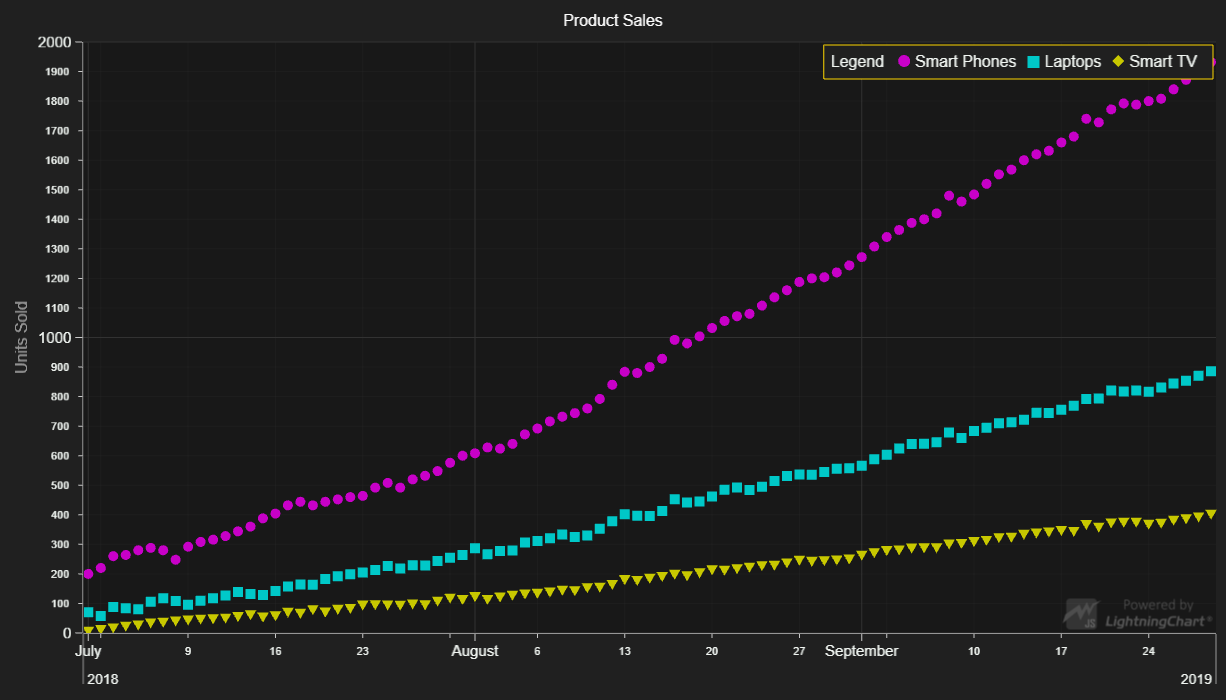
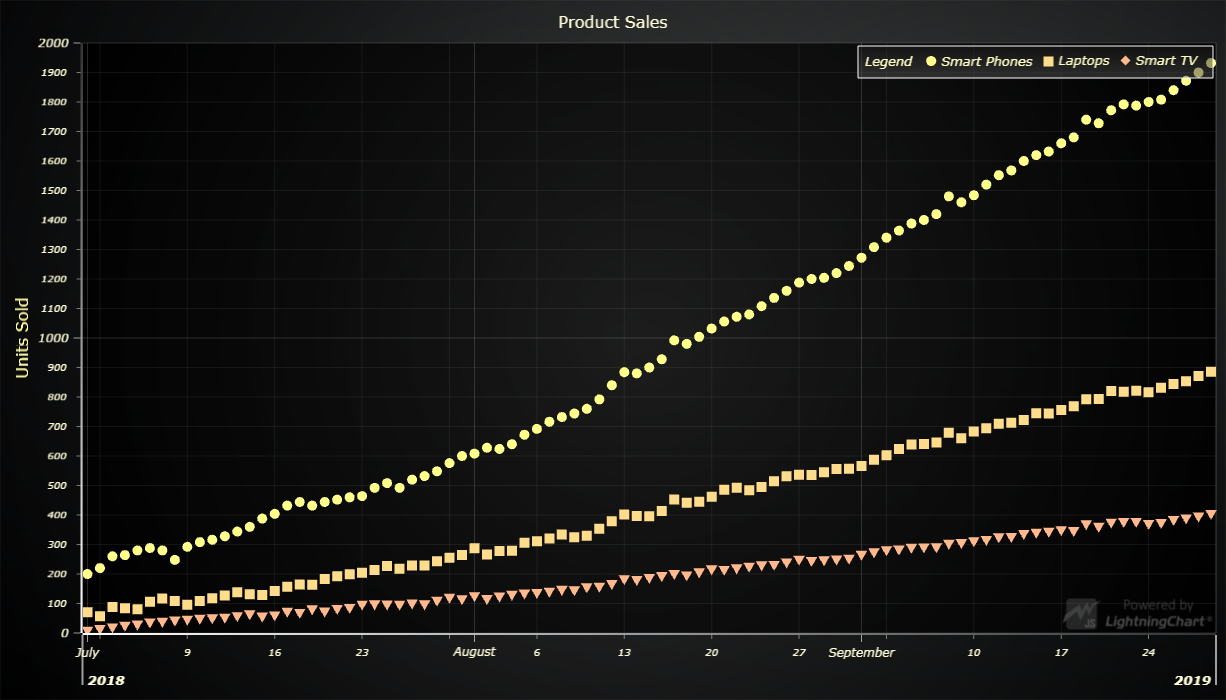
Update LCJS version

diff --git a/src/index.js b/src/index.js
@@ -14,7 +14,6 @@ const {
     ColorRGBA,
     UIElementBuilders,
     UIButtonPictures,
-    UIOrigins,
     LegendBoxBuilders,
     Themes
 } = lcjs
@@ -23,7 +22,7 @@ const {
 const dateOrigin = new Date(2018, 6, 1)
 // Create a XY Chart.
 const chart = lightningChart().ChartXY({
-    // theme: Themes.dark
+    // theme: Themes.darkGold
 })
 
 // Modify the default X Axis to use DateTime TickStrategy, and set the origin for the DateTime Axis.
@@ -37,26 +36,23 @@ chart.setTitle('Product Sales')
 
 // Create a LegendBox as part of the chart.
 const legend = chart.addLegendBox(LegendBoxBuilders.HorizontalLegendBox)
-
-// Apply Style color for each group
-const smartPhonesColor = new SolidFill({ color: ColorRGBA(200, 0, 200) })
-const laptopColor = new SolidFill({ color: ColorRGBA(0, 200, 200) })
-const smartTvColor = new SolidFill({ color: ColorRGBA(200, 200, 0) })
+    // Dispose example UI elements automatically if they take too much space. This is to avoid bad UI on mobile / etc. devices.
+    .setAutoDispose({
+        type: 'max-width',
+        maxWidth: 0.80,
+    })
 
 // Create series.
 const smartPhonesSeries = chart.addPointSeries({ pointShape: PointShape.Circle })
     .setName('Smart Phones')
-    .setPointFillStyle(smartPhonesColor)
     .setPointSize(10)
 
 const laptopsSeries = chart.addPointSeries({ pointShape: PointShape.Square })
     .setName('Laptops')
-    .setPointFillStyle(laptopColor)
     .setPointSize(10)
 
 const smartTvSeries = chart.addPointSeries({ pointShape: PointShape.Triangle })
     .setName('Smart TV')
-    .setPointFillStyle(smartTvColor)
     .setPointSize(10)
 
 // Generate some points using for each day of 3 months

diff --git a/webpack.config.js b/webpack.config.js
@@ -69,7 +69,8 @@ module.exports = {
         }),
         new CopyWebpackPlugin({
             patterns: [
-                { from: './assets/**/*', to: './examples/assets', flatten: true, noErrorOnMissing: true }
+                { from: './assets/**/*', to: './examples/assets', flatten: true, noErrorOnMissing: true },
+                { from: './node_modules/@arction/lcjs/dist/resources', to: 'resources', noErrorOnMissing: true },
             ]
         })
     ]

diff --git a/README.md b/README.md
@@ -136,9 +136,9 @@ Direct developer email support can be purchased through a [Support Plan][4] or b
 © Arction Ltd 2009-2020. All rights reserved.
 
 
-[XY cartesian chart]: https://www.arction.com/lightningchart-js-api-documentation/v3.0.1/classes/chartxy.html
-[RGBA color factory]: https://www.arction.com/lightningchart-js-api-documentation/v3.0.1/globals.html#colorrgba
-[Point series]: https://www.arction.com/lightningchart-js-api-documentation/v3.0.1/classes/pointseries.html
-[Point Shape options]: https://www.arction.com/lightningchart-js-api-documentation/v3.0.1/enums/pointshape.html
+[XY cartesian chart]: https://www.arction.com/lightningchart-js-api-documentation/v3.1.0/classes/chartxy.html
+[RGBA color factory]: https://www.arction.com/lightningchart-js-api-documentation/v3.1.0/globals.html#colorrgba
+[Point series]: https://www.arction.com/lightningchart-js-api-documentation/v3.1.0/classes/pointseries.html
+[Point Shape options]: https://www.arction.com/lightningchart-js-api-documentation/v3.1.0/enums/pointshape.html
 [Random trace data generator]: https://arction.github.io/xydata/classes/tracegenerator.html
 
